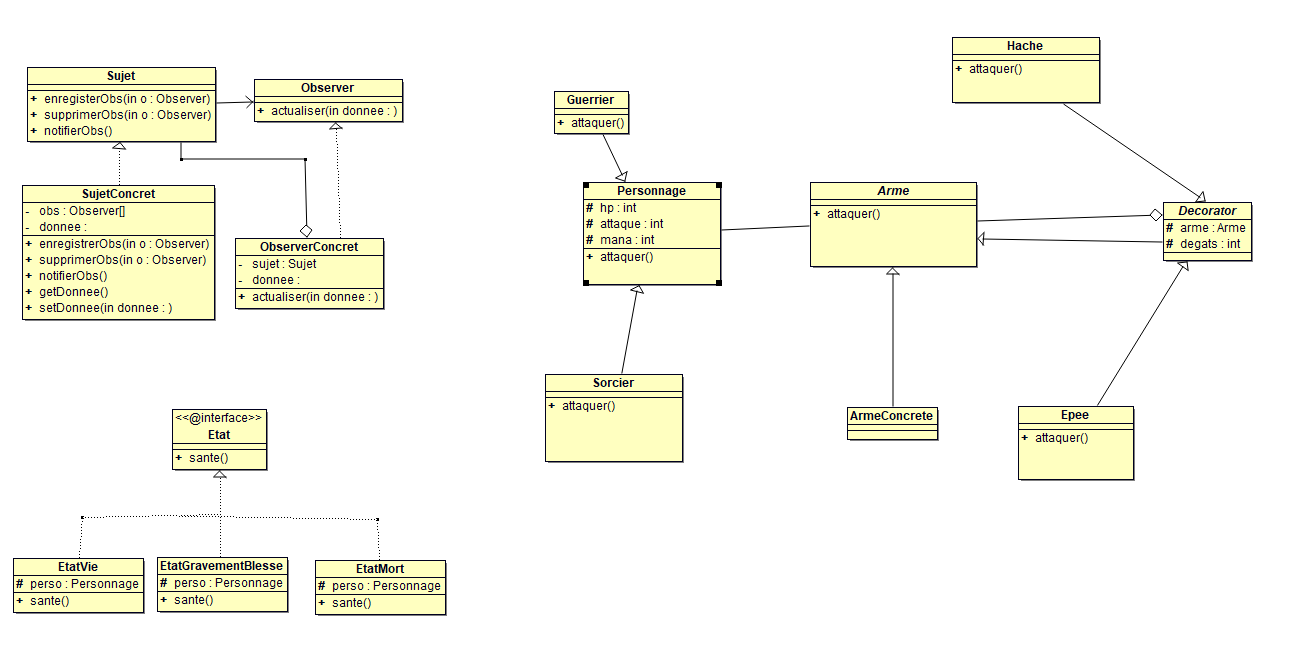
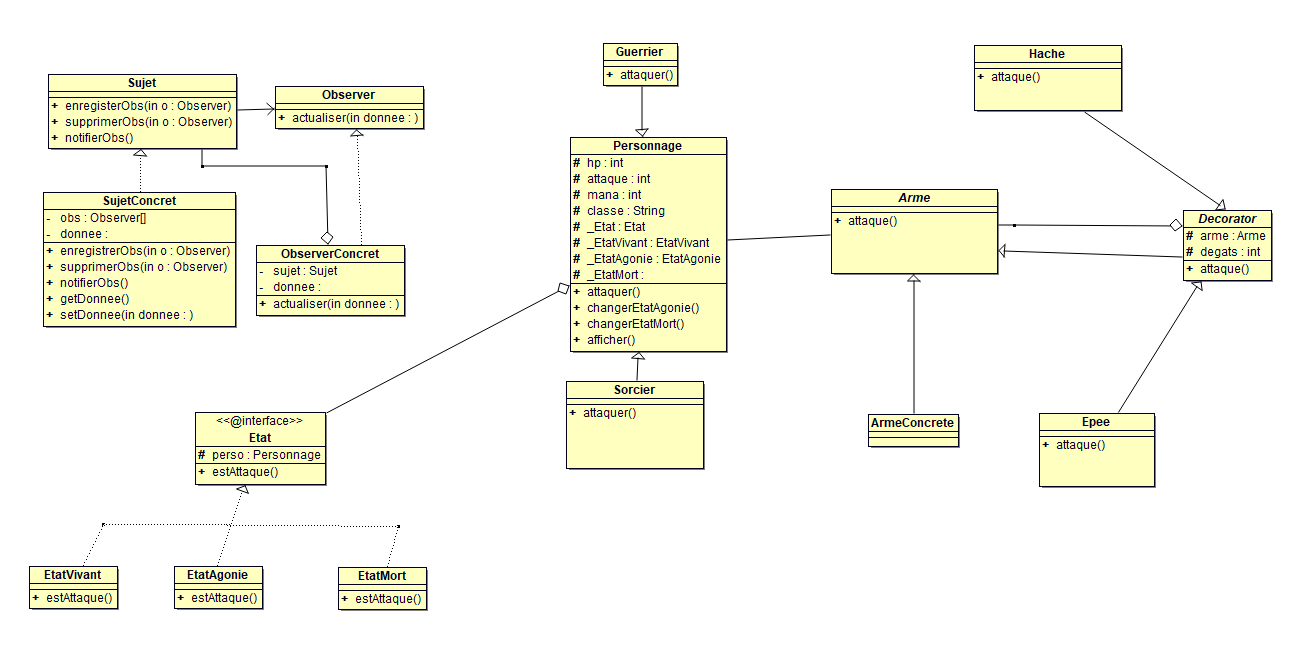
States

diff --git a/src/Personnage.java b/src/Personnage.java
@@ -1,14 +1,29 @@
 public class Personnage {
 
+    protected String classe;
     protected int hp;
     protected int attaque;
     protected int mana;
     protected Arme arme;
 
-    public Personnage(int hp, int attaque, int mana) {
+    protected Etat _Etat;
+    protected EtatVivant _EtatVivant;
+    protected EtatAgonie _EtatAgonie;
+    protected EtatMort _EtatMort;
+
+
+    public Personnage(int hp, int attaque, int mana,String classe) {
         this.hp = hp;
         this.attaque = attaque;
         this.mana = mana;
+        this.classe=classe;
+
+        this._EtatMort=new EtatMort(this);
+        this._EtatAgonie=new EtatAgonie(this);
+        this._EtatVivant=new EtatVivant(this);
+
+        this._Etat=_EtatVivant;
+
     }
 
     public int getHp() {
@@ -41,5 +56,27 @@ public class Personnage {
 
     public void setArme(Arme arme) {
         this.arme = arme;
+        arme.attaque(this);
+    }
+
+    public String getClasse() {
+        return classe;
+    }
+
+    public void changerEtatMort(){
+        _Etat=_EtatMort;
+
+    }
+
+    public void changerEtatAgonie(){
+        _Etat=_EtatAgonie;
+        setAttaque((int)(getAttaque()*1.25));
+    }
+
+    public void afficher(){
+        System.out.println(this.getClasse());
+        System.out.println("Points de vie : "+this.getHp());
+        System.out.println("Puissance d'attaque : "+this.getAttaque());
+        System.out.println("Mana : "+this.getMana());
     }
 }

diff --git a/src/EtatVivant.java b/src/EtatVivant.java
@@ -1,0 +1,18 @@
+public class EtatVivant extends Etat{
+
+    public EtatVivant(Personnage perso) {
+        super(perso);
+    }
+
+    @Override
+    public void estAttaque() {
+        if(perso.getHp()<vieIni*(0.15)){
+            perso.changerEtatAgonie();
+        }
+        else if (perso.getHp()<=0){
+            perso.changerEtatMort();
+
+        }
+
+    }
+}

diff --git a/src/Guerrier.java b/src/Guerrier.java
@@ -1,7 +1,13 @@
 public class Guerrier extends Personnage{
 
     public Guerrier(int hp,int attaque) {
-        super(hp,attaque,0);
+        super(hp,attaque,0,"Guerrier");
+    }
+
+    public void attaquer(Personnage personnage){
+        personnage.setHp(personnage.getHp()-super.attaque);
+        personnage._Etat.estAttaque();
+
     }
 
 

diff --git a/src/EtatAgonie.java b/src/EtatAgonie.java
@@ -1,0 +1,13 @@
+public class EtatAgonie extends Etat{
+
+    public EtatAgonie(Personnage perso) {
+        super(perso);
+    }
+
+    @Override
+    public void estAttaque() {
+        if(perso.getHp()<=0){
+            perso.changerEtatMort();
+        }
+    }
+}

diff --git a/src/Decorator.java b/src/Decorator.java
@@ -9,8 +9,8 @@ public abstract class Decorator extends Arme{
     }
 
     @Override
-    void attaquer(){
-        arme.attaquer();
+    void attaque(Personnage personnage){
+        personnage.setAttaque(personnage.getAttaque()+this.degats);
     }
 
 

diff --git a/src/Etat.java b/src/Etat.java
@@ -1,0 +1,16 @@
+public abstract class Etat {
+
+    Personnage perso;
+    int vieIni;
+
+    public Etat(Personnage perso) {
+        this.perso = perso;
+        vieIni=perso.getHp();
+    }
+
+    public void estAttaque(){
+
+    }
+
+
+}

diff --git a/src/Sorcier.java b/src/Sorcier.java
@@ -1,0 +1,6 @@
+public class Sorcier extends Personnage{
+
+    public Sorcier(int hp, int attaque, int mana, String classe) {
+        super(hp, attaque, mana, "Sorcier");
+    }
+}

diff --git a/src/EtatMort.java b/src/EtatMort.java
@@ -1,0 +1,9 @@
+public class EtatMort extends Etat{
+
+    Personnage perso;
+
+    public EtatMort(Personnage perso){
+        super(perso);
+    }
+
+}

diff --git a/src/Arme.java b/src/Arme.java
@@ -1,4 +1,4 @@
 public abstract class Arme {
 
-    abstract void attaquer();
+    abstract void attaque(Personnage personnage);
 }

diff --git a/src/Epee.java b/src/Epee.java
@@ -1,0 +1,8 @@
+public class Epee extends Decorator{
+
+    public Epee(Arme arme) {
+        super(arme, 15);
+    }
+
+
+}

diff --git a/src/App.java b/src/App.java
@@ -1,0 +1,5 @@
+public class App {
+    public static void main(String[] args) {
+
+    }
+}
